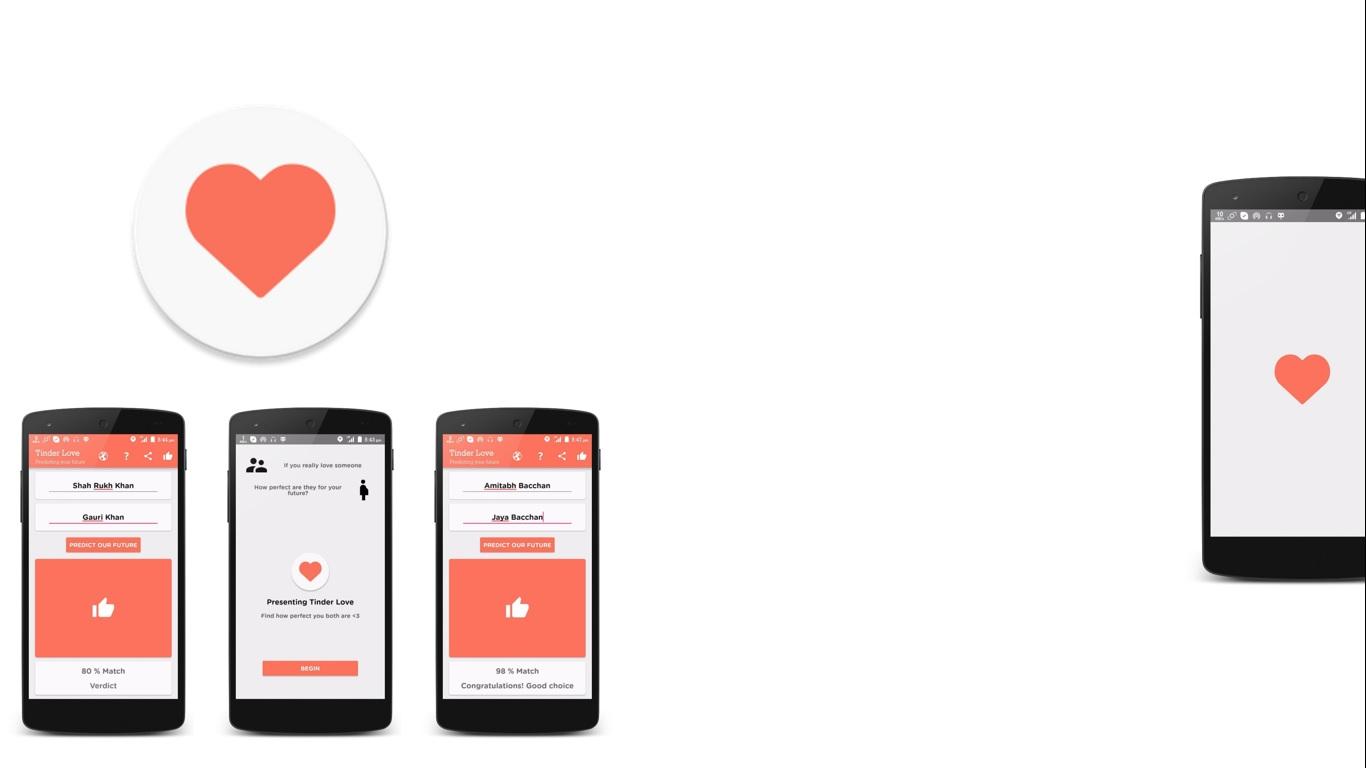
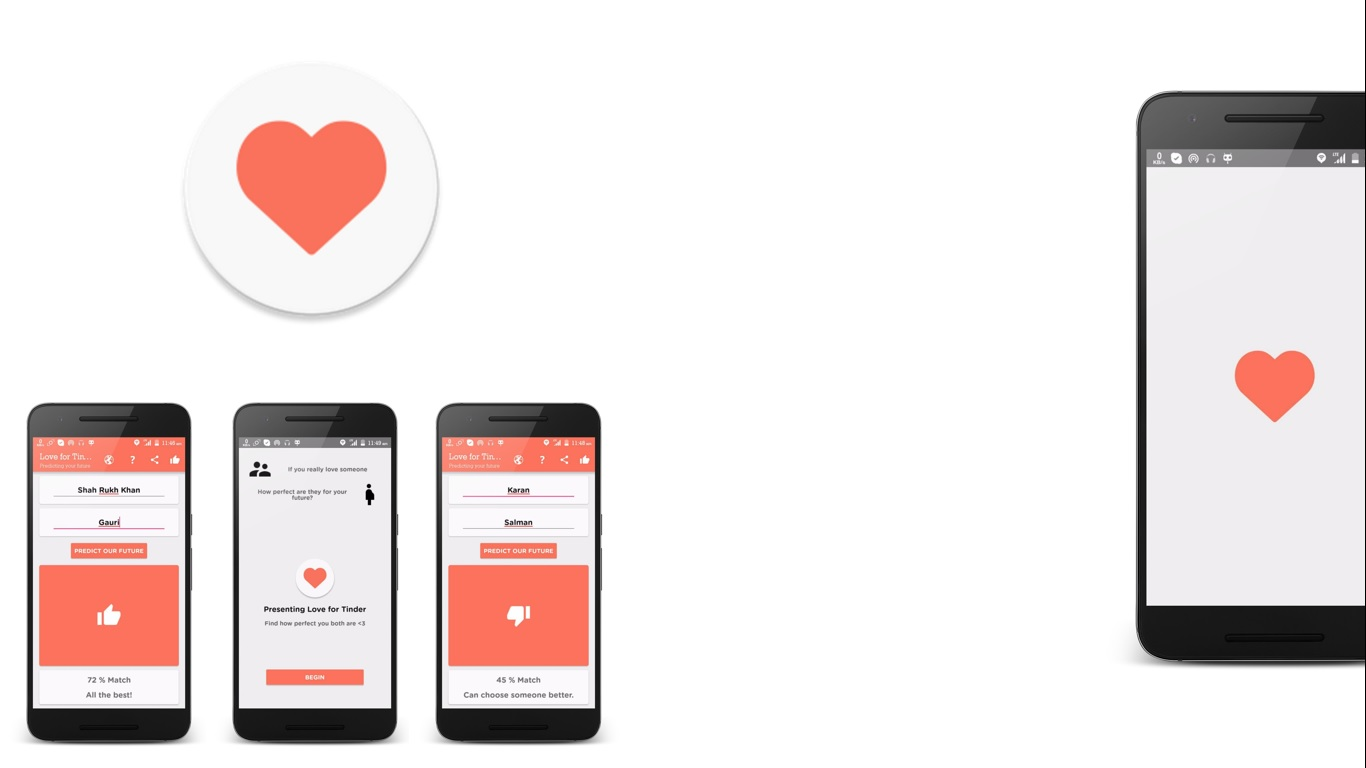
awesome sms added

diff --git a/index.html b/index.html
@@ -51,10 +51,35 @@
             <div class="mbr-box mbr-box--stretched"><div class="mbr-box__magnet mbr-box__magnet--center-left">
                 <div class="row"><div class=" col-sm-6 col-sm-offset-6">
                     <div class="mbr-hero animated fadeInUp">
-                        <h1 class="mbr-hero__text">Tinder Love</h1>
+                        <h1 class="mbr-hero__text">Love for Tinder</h1>
                         <p class="mbr-hero__subtext"><font size="4"><strong>How perfect is your partner for you?</strong></font><font size="4"><strong><br></strong></font></p>
                     </div>
-                    <div class="mbr-buttons btn-inverse mbr-buttons--left"> <a class="mbr-buttons__btn btn btn-lg animated fadeInUp delay btn-primary" href="https://play.google.com/store/apps/details?id=com.mumayankm.thankyou.tinderlove">Play Store<br></a></div>
+                    <div class="mbr-buttons btn-inverse mbr-buttons--left"> <a class="mbr-buttons__btn btn btn-lg animated fadeInUp delay btn-primary" href="https://play.google.com/store/apps/details?id=com.mumayankm.thankyou.lovefortinder">Play Store<br></a></div>
+                </div></div>
+            </div></div>
+        </div>
+        <div class="mbr-arrow mbr-arrow--floating text-center">
+            <div class="mbr-section__container container">
+                <a class="mbr-arrow__link" href="#page3"><i class="glyphicon glyphicon-menu-down"></i></a>
+            </div>
+        </div>
+    </div>
+</section>
+
+
+
+<section class="engine">Thank You</section>
+<section class="mbr-box mbr-section mbr-section--relative mbr-section--fixed-size mbr-section--full-height mbr-section--bg-adapted mbr-parallax-background" id="header1-0" style="background-image: url(assets/images/tinderlove.jpg);">
+    <div data-role="page" id="page3" class="mbr-box__magnet mbr-box__magnet--sm-padding mbr-box__magnet--center-left">
+        <div class="mbr-overlay" style="opacity: 0.05; background-color: rgb(250,114,92);"></div>
+        <div class="mbr-box__container mbr-section__container container">
+            <div class="mbr-box mbr-box--stretched"><div class="mbr-box__magnet mbr-box__magnet--center-left">
+                <div class="row"><div class=" col-sm-6 col-sm-offset-6">
+                    <div class="mbr-hero animated fadeInUp">
+                        <h1 class="mbr-hero__text">Awesome SMS</h1>
+                        <p class="mbr-hero__subtext"><font size="4"><strong>Love texting again.</strong></font><font size="4"><strong><br></strong></font></p>
+                    </div>
+                    <div class="mbr-buttons btn-inverse mbr-buttons--left"> <a class="mbr-buttons__btn btn btn-lg animated fadeInUp delay btn-primary" href="https://play.google.com/store/apps/details?id=com.mumayankm.thankyou.awesomesms">Play Store<br></a></div>
                 </div></div>
             </div></div>
         </div>
